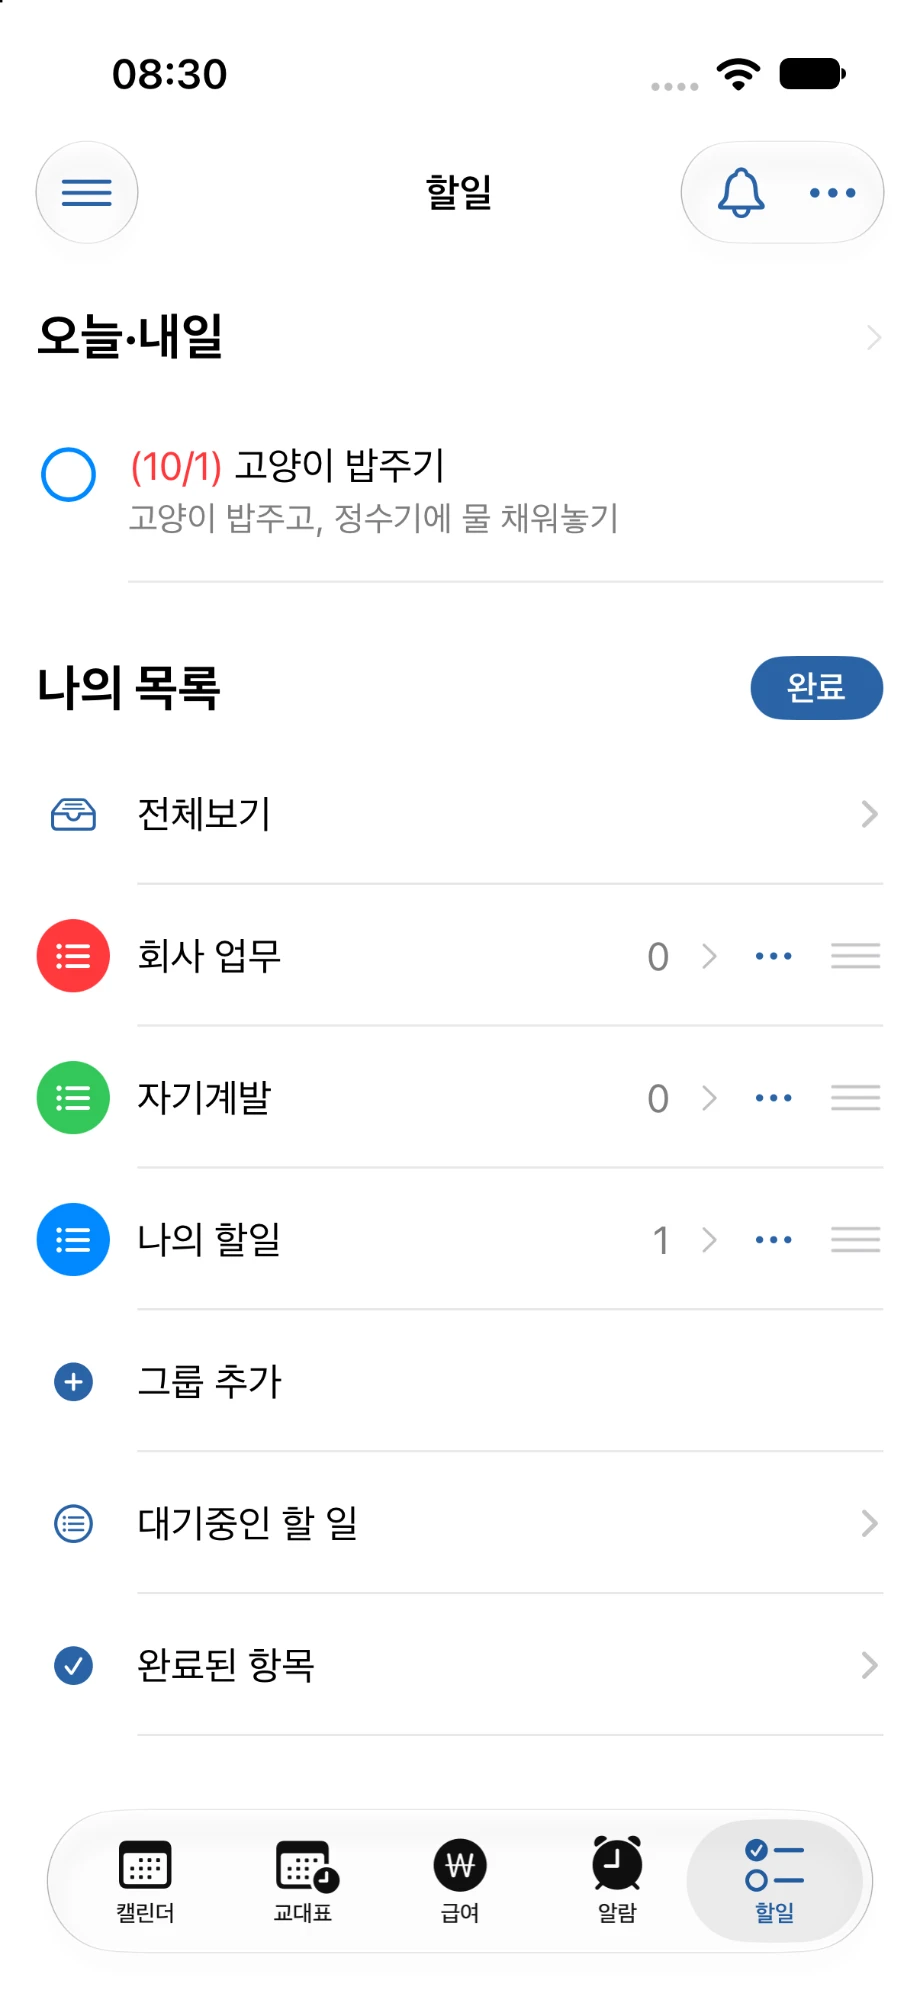
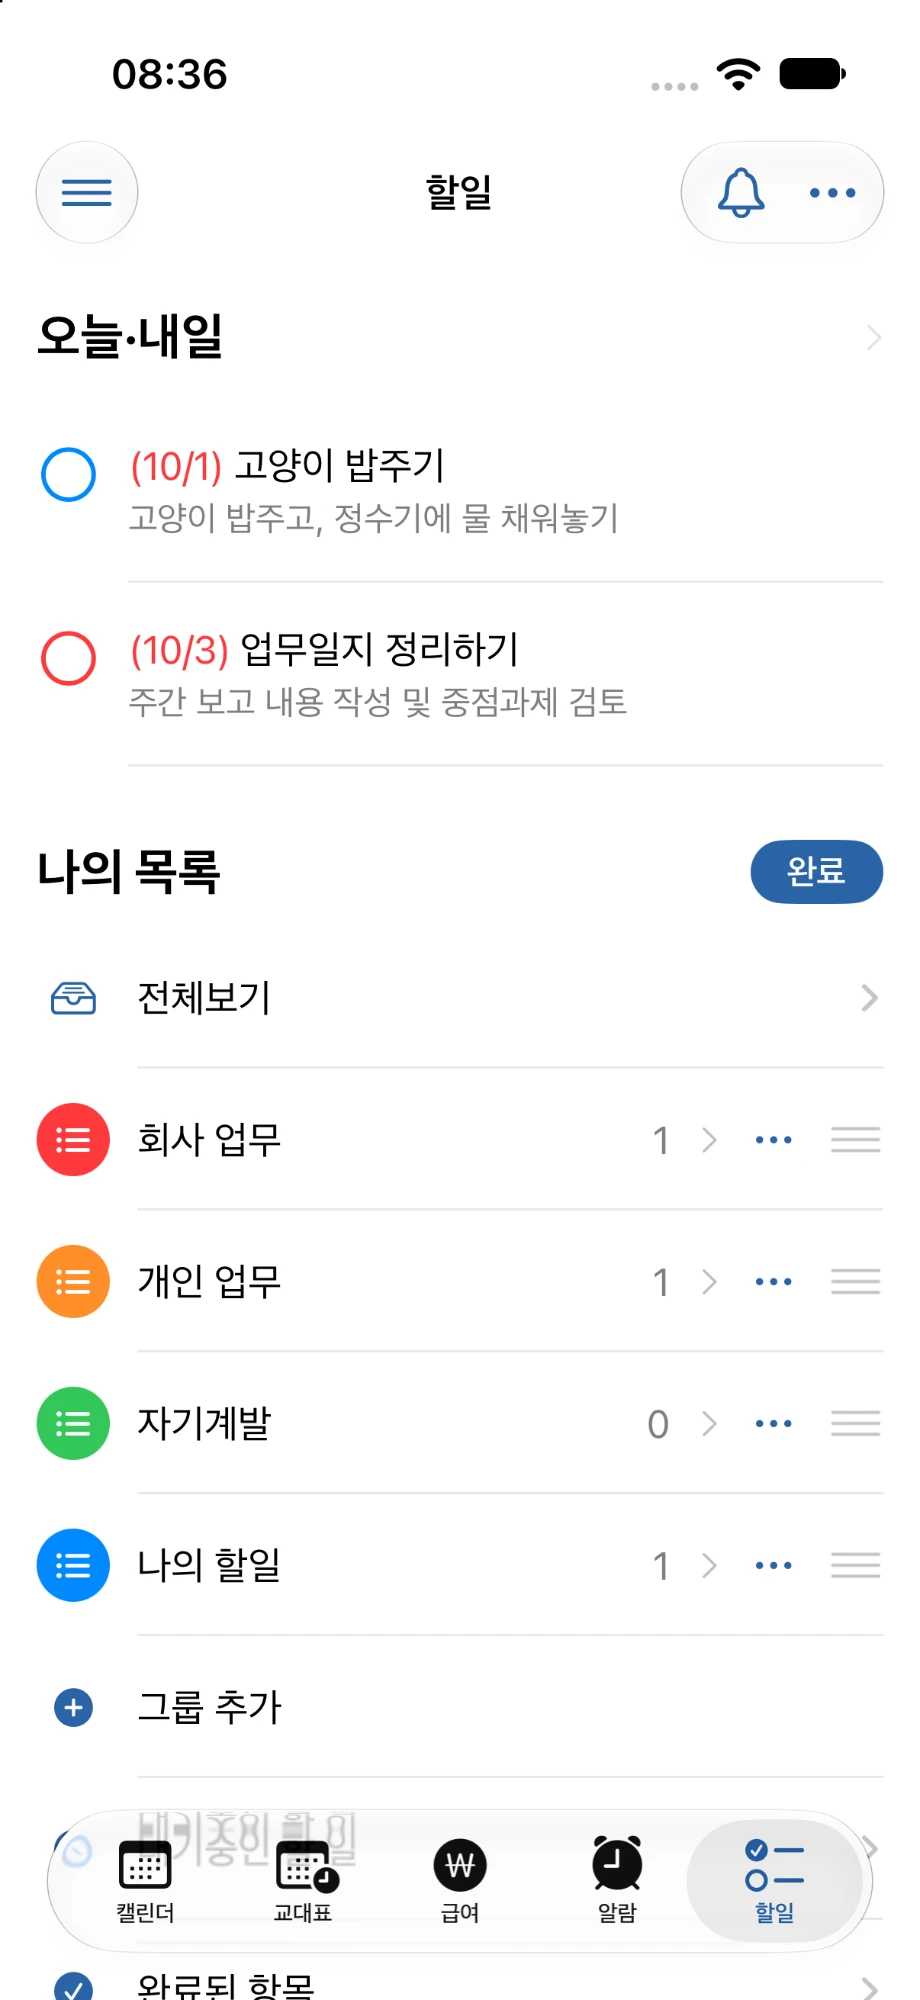
STEP 20: Replace to-do main screenshot (light/dark)

diff --git a/tips-todo.html b/tips-todo.html
@@ -55,7 +55,8 @@
                 </div>
                 <figure class="slide-media">
                   <picture>
-                    <img src="./images/tips/todo-view-1-main-light.webp" alt="할일 메인 화면. 위쪽 ‘오늘·내일’에 납기가 지난 할일이 있고, 아래 ‘나의 목록’에 전체보기, 회사 업무·자기계발·나의 할일 목록, 그룹 추가, 대기중인 할 일, 완료된 항목이 있습니다." width="920" height="2000" loading="lazy" decoding="async">
+                    <source srcset="./images/tips/todo-view-1-main-dark.webp" media="(prefers-color-scheme: dark)">
+                    <img src="./images/tips/todo-view-1-main-light.webp" alt="할일 메인 화면. 위쪽 ‘오늘·내일’에 납기가 지난 할일이 있고, 아래 ‘나의 목록’에 전체보기, 회사 업무·개인 업무·자기계발·나의 할일 목록, 그룹 추가, 대기중인 할 일, 완료된 항목이 있습니다." width="920" height="2000" loading="lazy" decoding="async">
                   </picture>
                 </figure>
               </li>
